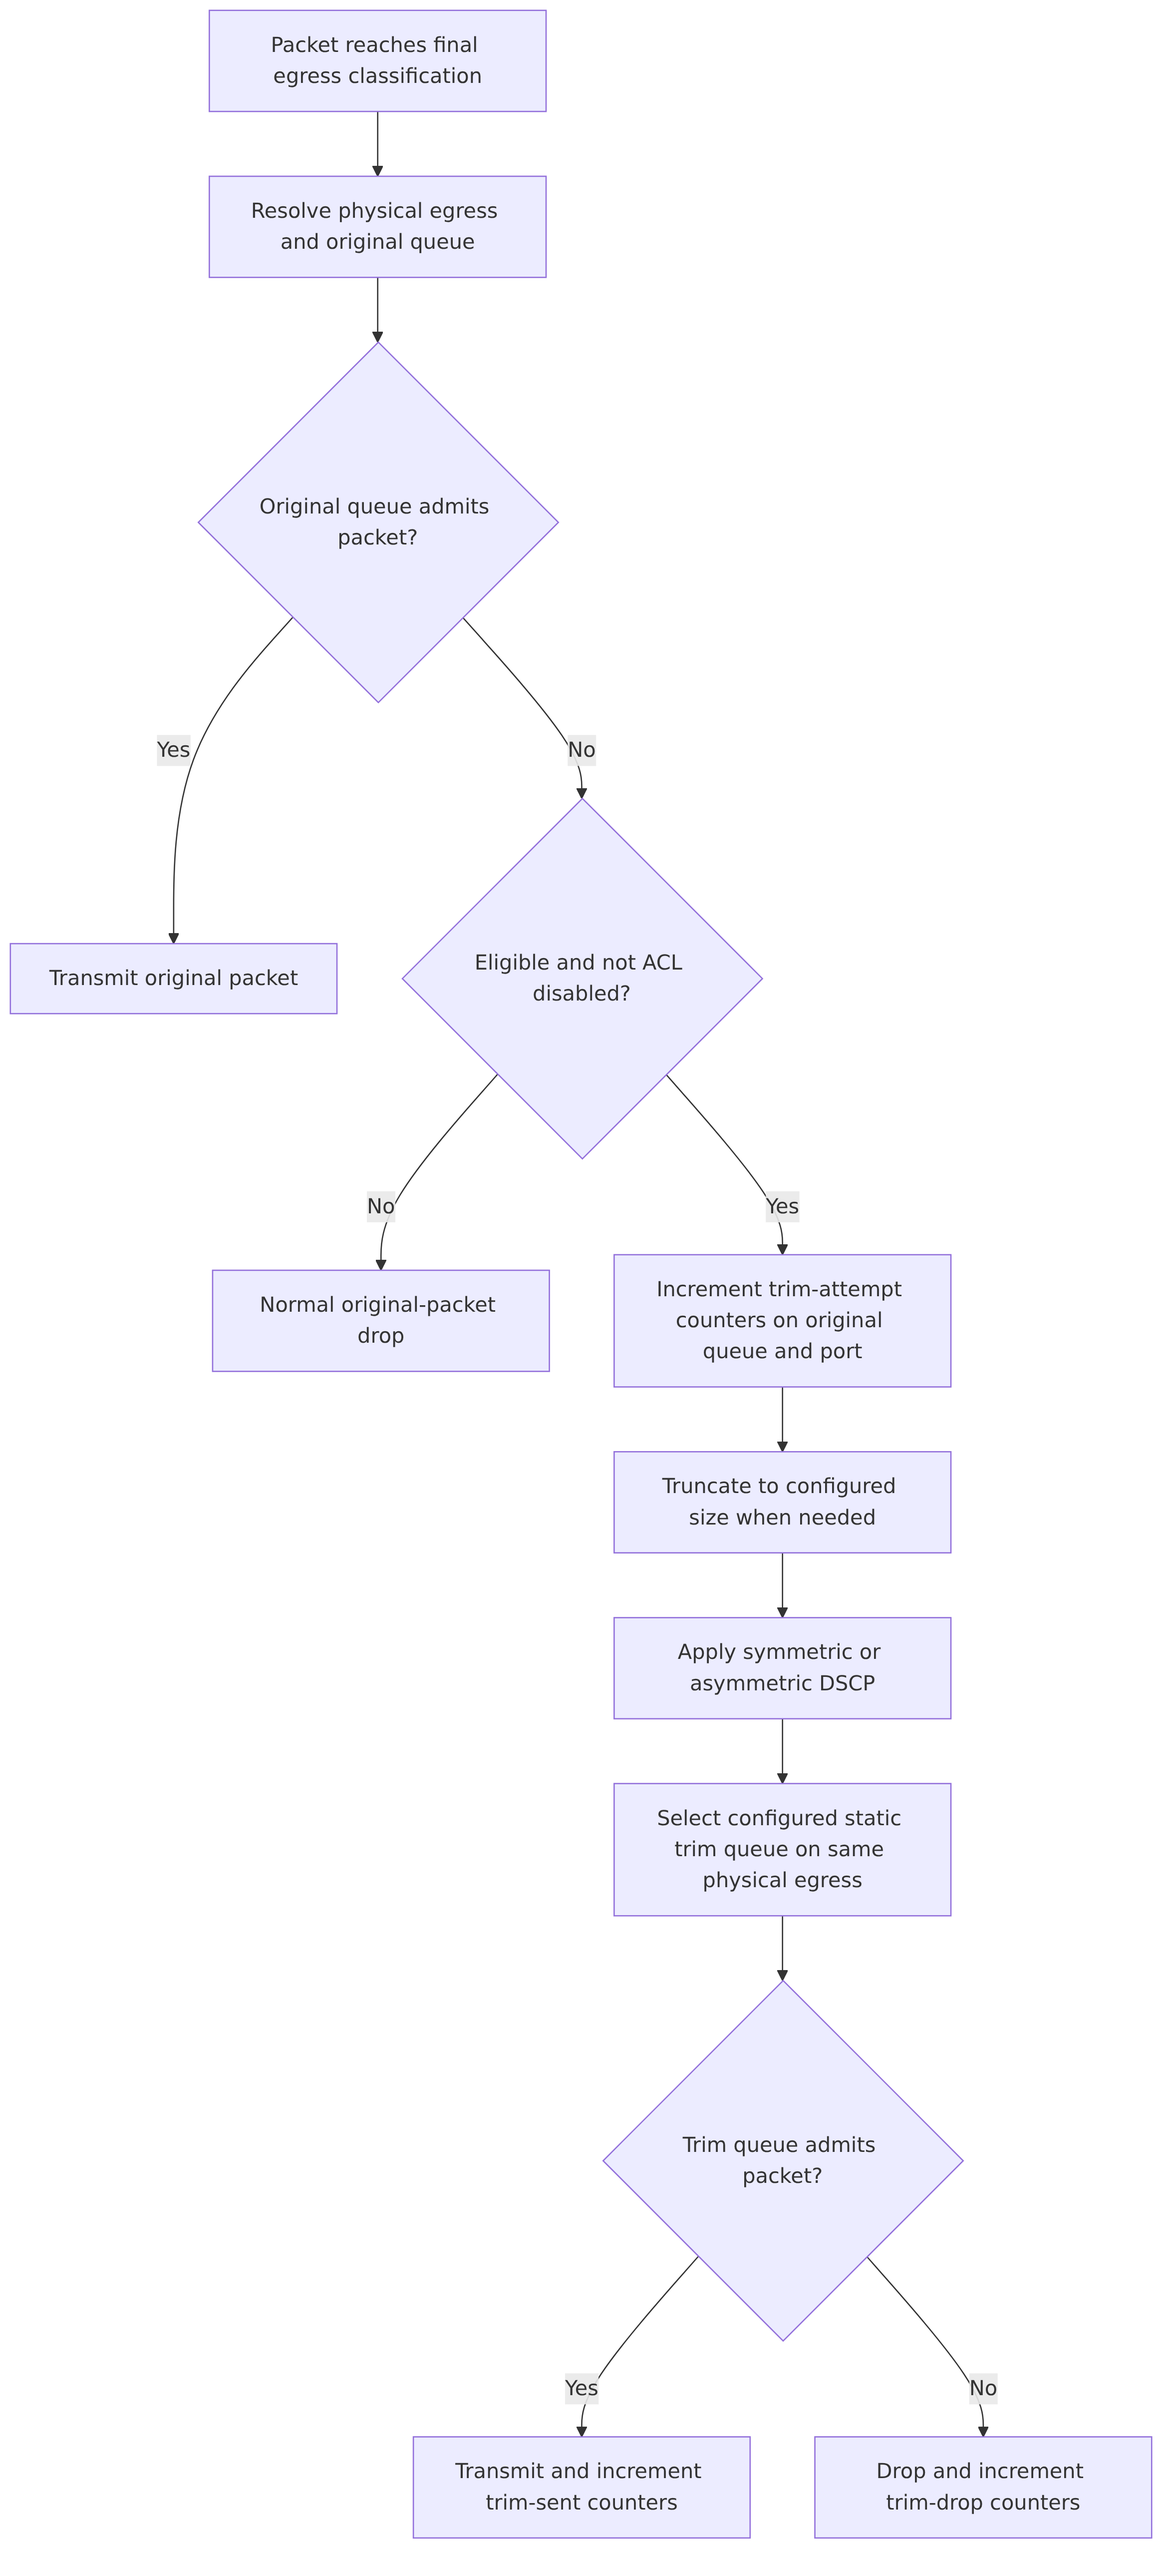
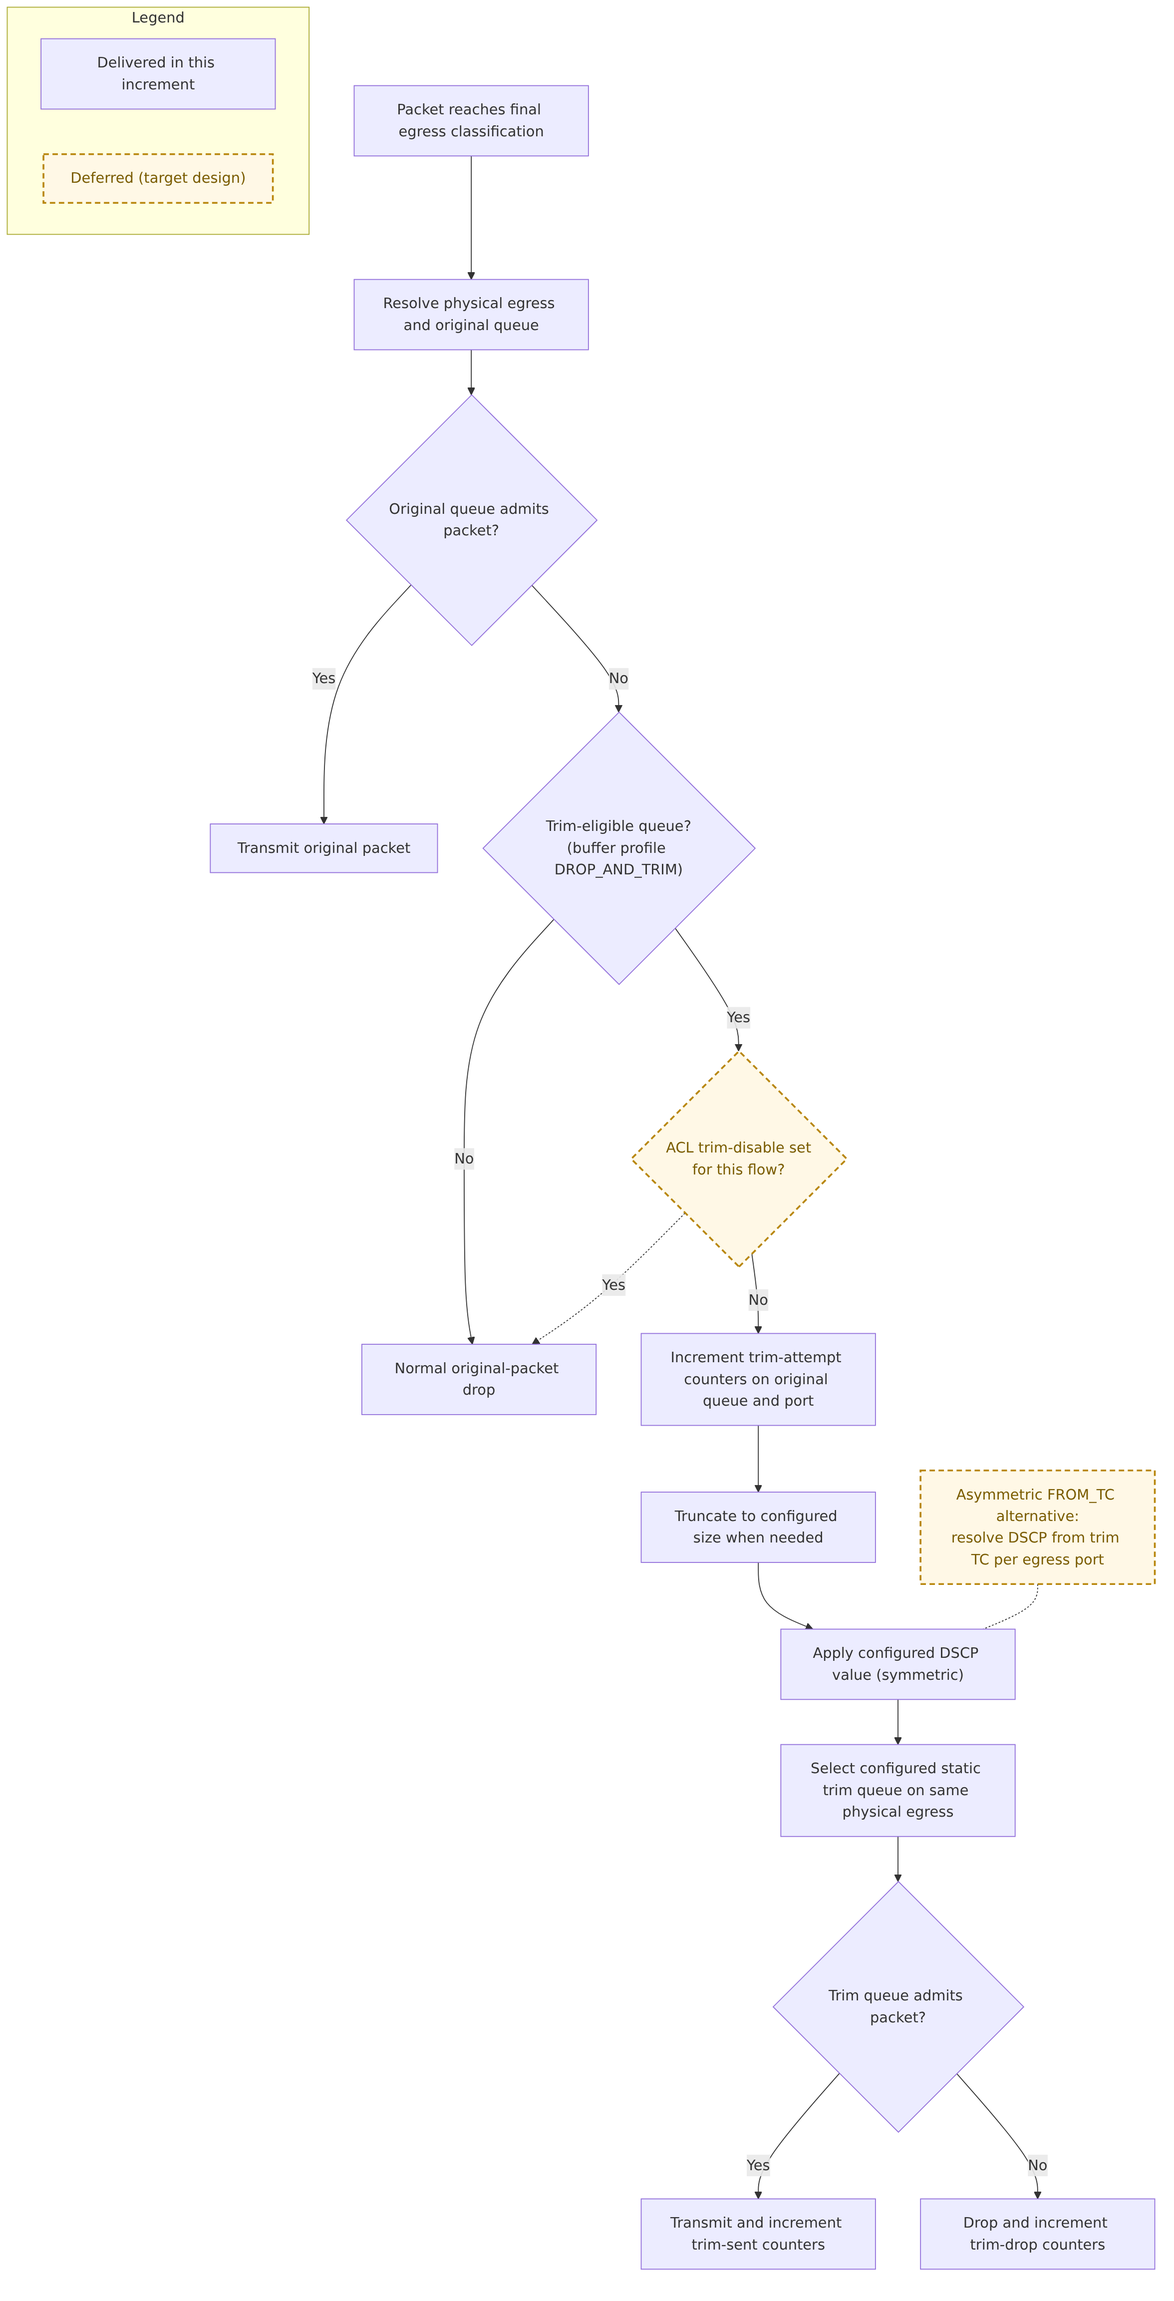
[doc] Mark deferred elements (ACL trim-disable, asymmetric DSCP) in HLD dataplane diagram
Split the combined eligibility/ACL decision so trim eligibility (delivered)
is distinct from the ACL trim-disable gate (deferred), mark the asymmetric
FROM_TC DSCP path as a deferred alternative, and add a dashed=deferred legend.
Update the caption and alt text to match.

diff --git a/doc/vpp/vpp-packet-trimming-HLD.md b/doc/vpp/vpp-packet-trimming-HLD.md
@@ -274,14 +274,16 @@ counter sourcing are deferred.
 
 <p align="center">
   <img src="images/packet-trimming-dataplane-flow.png" width="520"
-       alt="Dataplane flow: after a packet reaches final egress classification and the physical egress and original queue are resolved, the original queue is checked for admission. If it admits, the original packet is transmitted. If not, and the queue is trim-eligible and not ACL-disabled, trim-attempt counters increment, the packet is truncated to the configured size, DSCP is applied, and the configured static trim queue on the same physical egress is selected; if that trim queue admits, the packet is transmitted and trim-sent counters increment, otherwise it is dropped and trim-drop counters increment. Non-eligible queues take the normal original-packet path.">
+       alt="Dataplane flow: after a packet reaches final egress classification, the physical egress and original queue are resolved and the original queue is checked for admission. If it admits, the original packet is transmitted. If admission fails, the queue is checked for trim eligibility (buffer profile DROP_AND_TRIM); non-eligible queues take the normal original-packet path. Eligible queues pass through a deferred (dashed) ACL trim-disable gate, then trim-attempt counters increment, the packet is truncated to the configured size, the configured symmetric DSCP value is applied (with a deferred, dashed asymmetric FROM_TC alternative that resolves DSCP from a trim TC per egress port), and the configured static trim queue on the same physical egress is selected; if that trim queue admits, the packet is transmitted and trim-sent counters increment, otherwise it is dropped and trim-drop counters increment. Dashed amber nodes are deferred target-design elements per the legend.">
 </p>
 
-This flowchart is the full conceptual design. In the delivered increment the
-"ACL disabled" branch and the asymmetric-DSCP step are deferred: the datapath
-applies symmetric `DSCP_VALUE` only and does not yet honor an ACL trim-disable
-flag ([7.5](#75-dscp-resolution), [7.9](#79-acl-disable-trim),
-[13.1](#131-integration-status)). The delivered counters are switch-global
+This flowchart is the full conceptual design; **dashed amber nodes mark elements
+deferred in this increment** (see the diagram legend). Specifically, the ACL
+trim-disable gate and the asymmetric-DSCP (`FROM_TC`) alternative are deferred:
+the datapath applies the symmetric `DSCP_VALUE` only and does not yet honor an
+ACL trim-disable flag ([7.5](#75-dscp-resolution), [7.9](#79-acl-disable-trim),
+[13.1](#131-integration-status)). Trim eligibility itself (buffer profile
+`DROP_AND_TRIM`) is delivered. The delivered counters are switch-global
 plugin summaries; the port/queue increments shown are target SAI attribution
 ([7.11](#711-counters)). The `Normal original-packet drop` node likewise
 represents the conceptual/hardware admission model: on the delivered VPP
